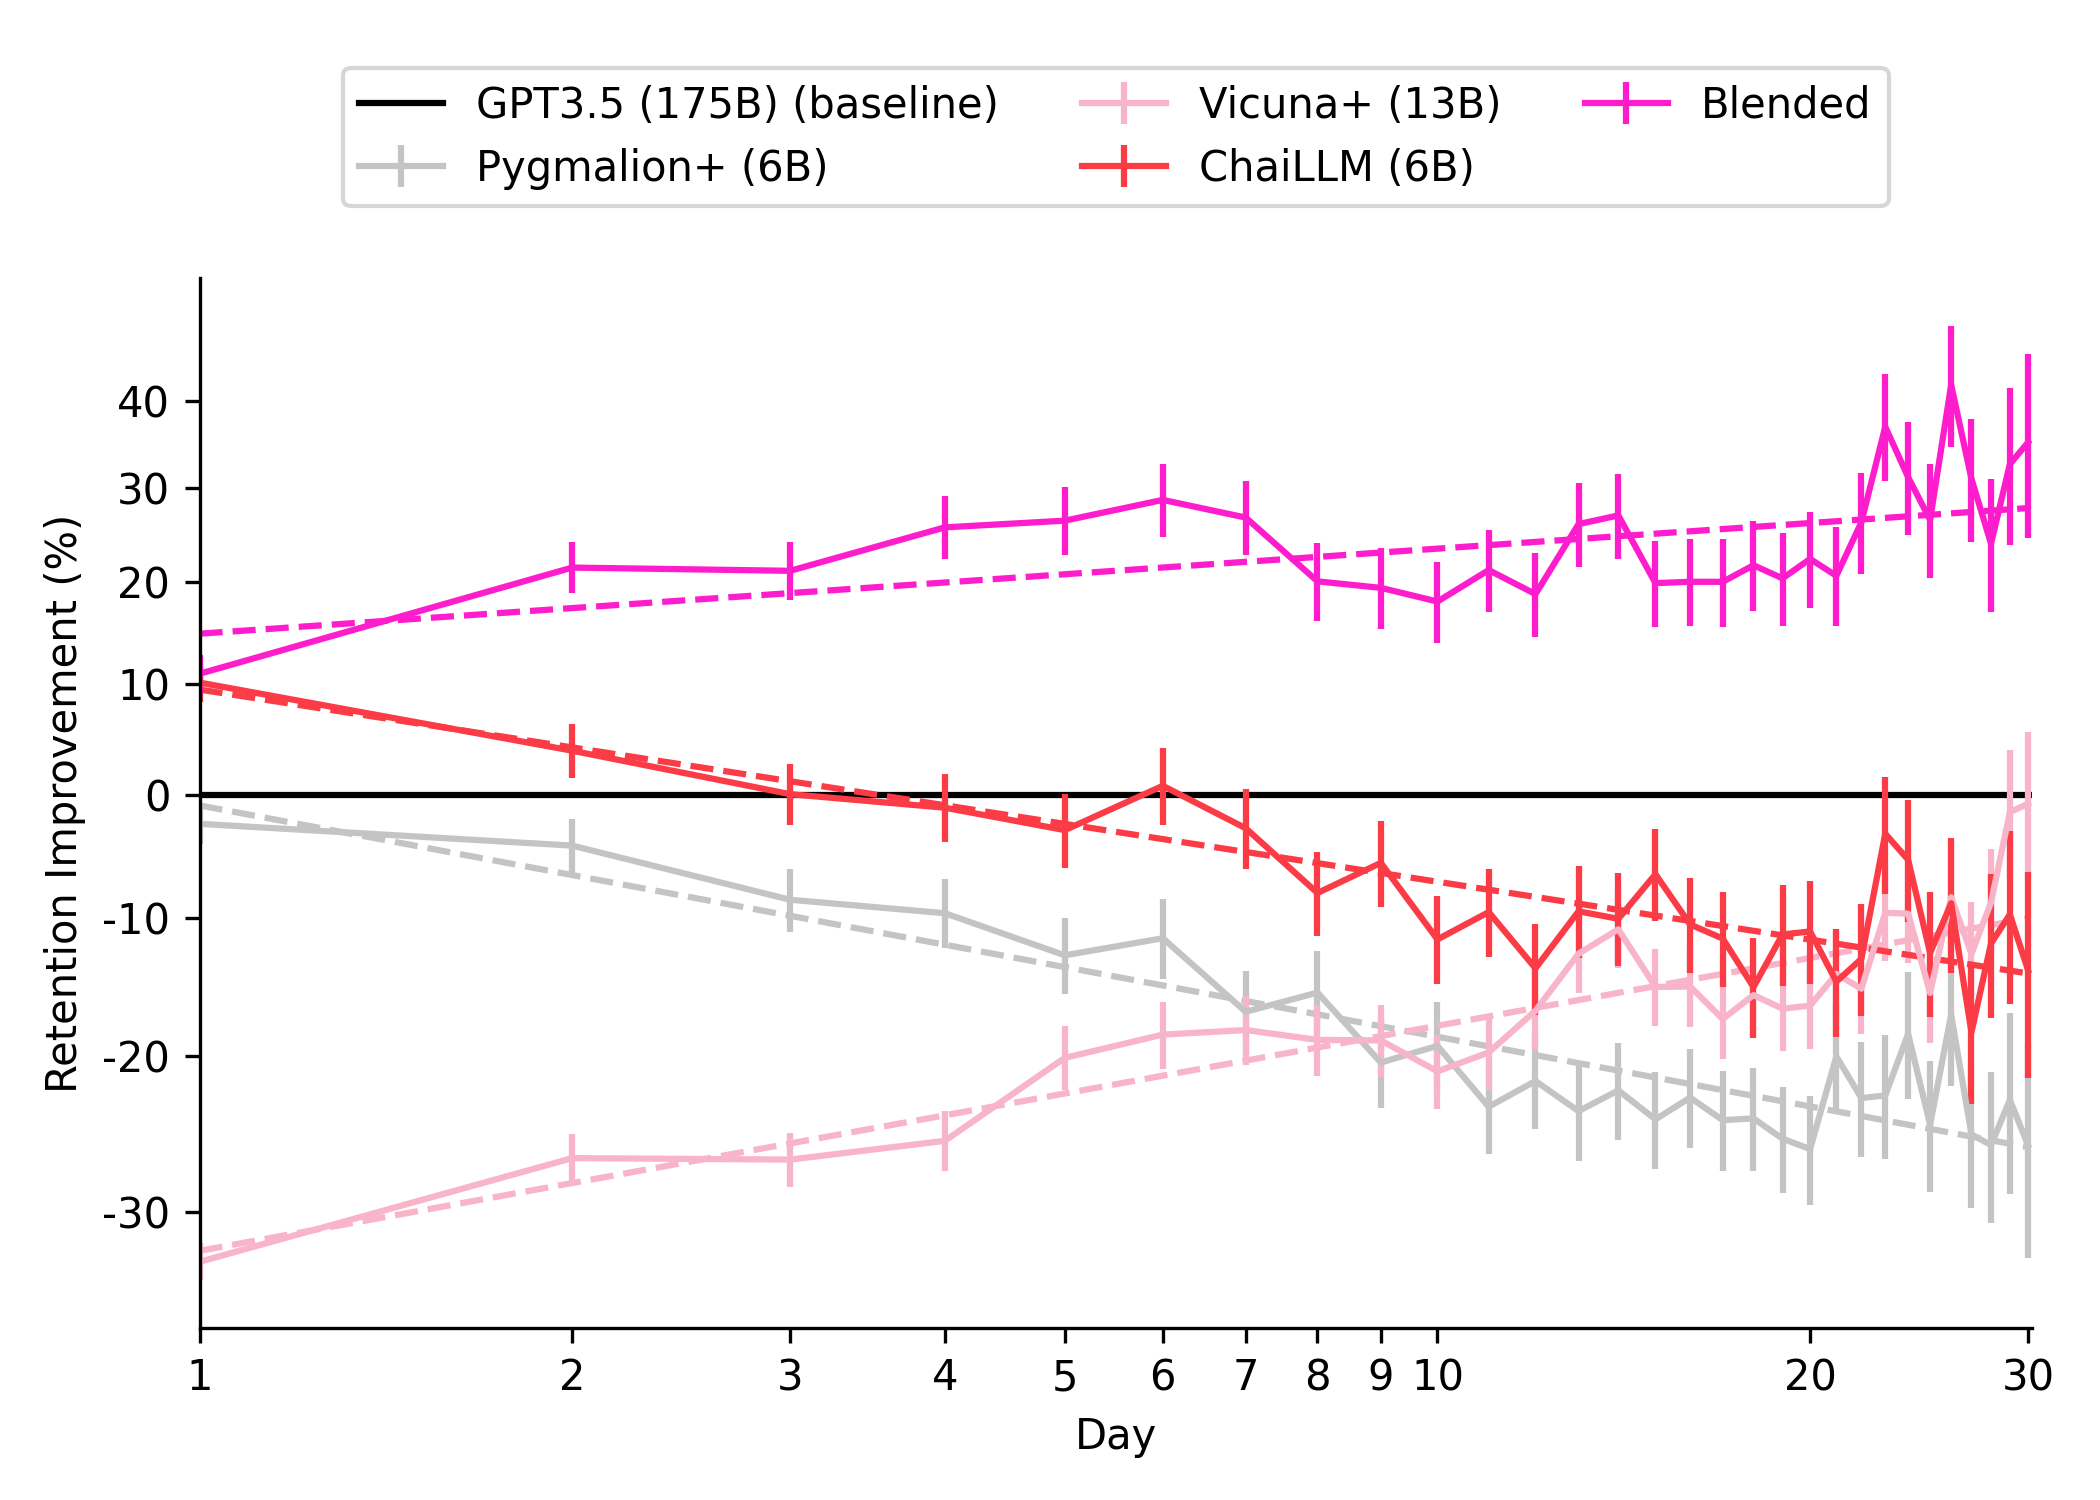
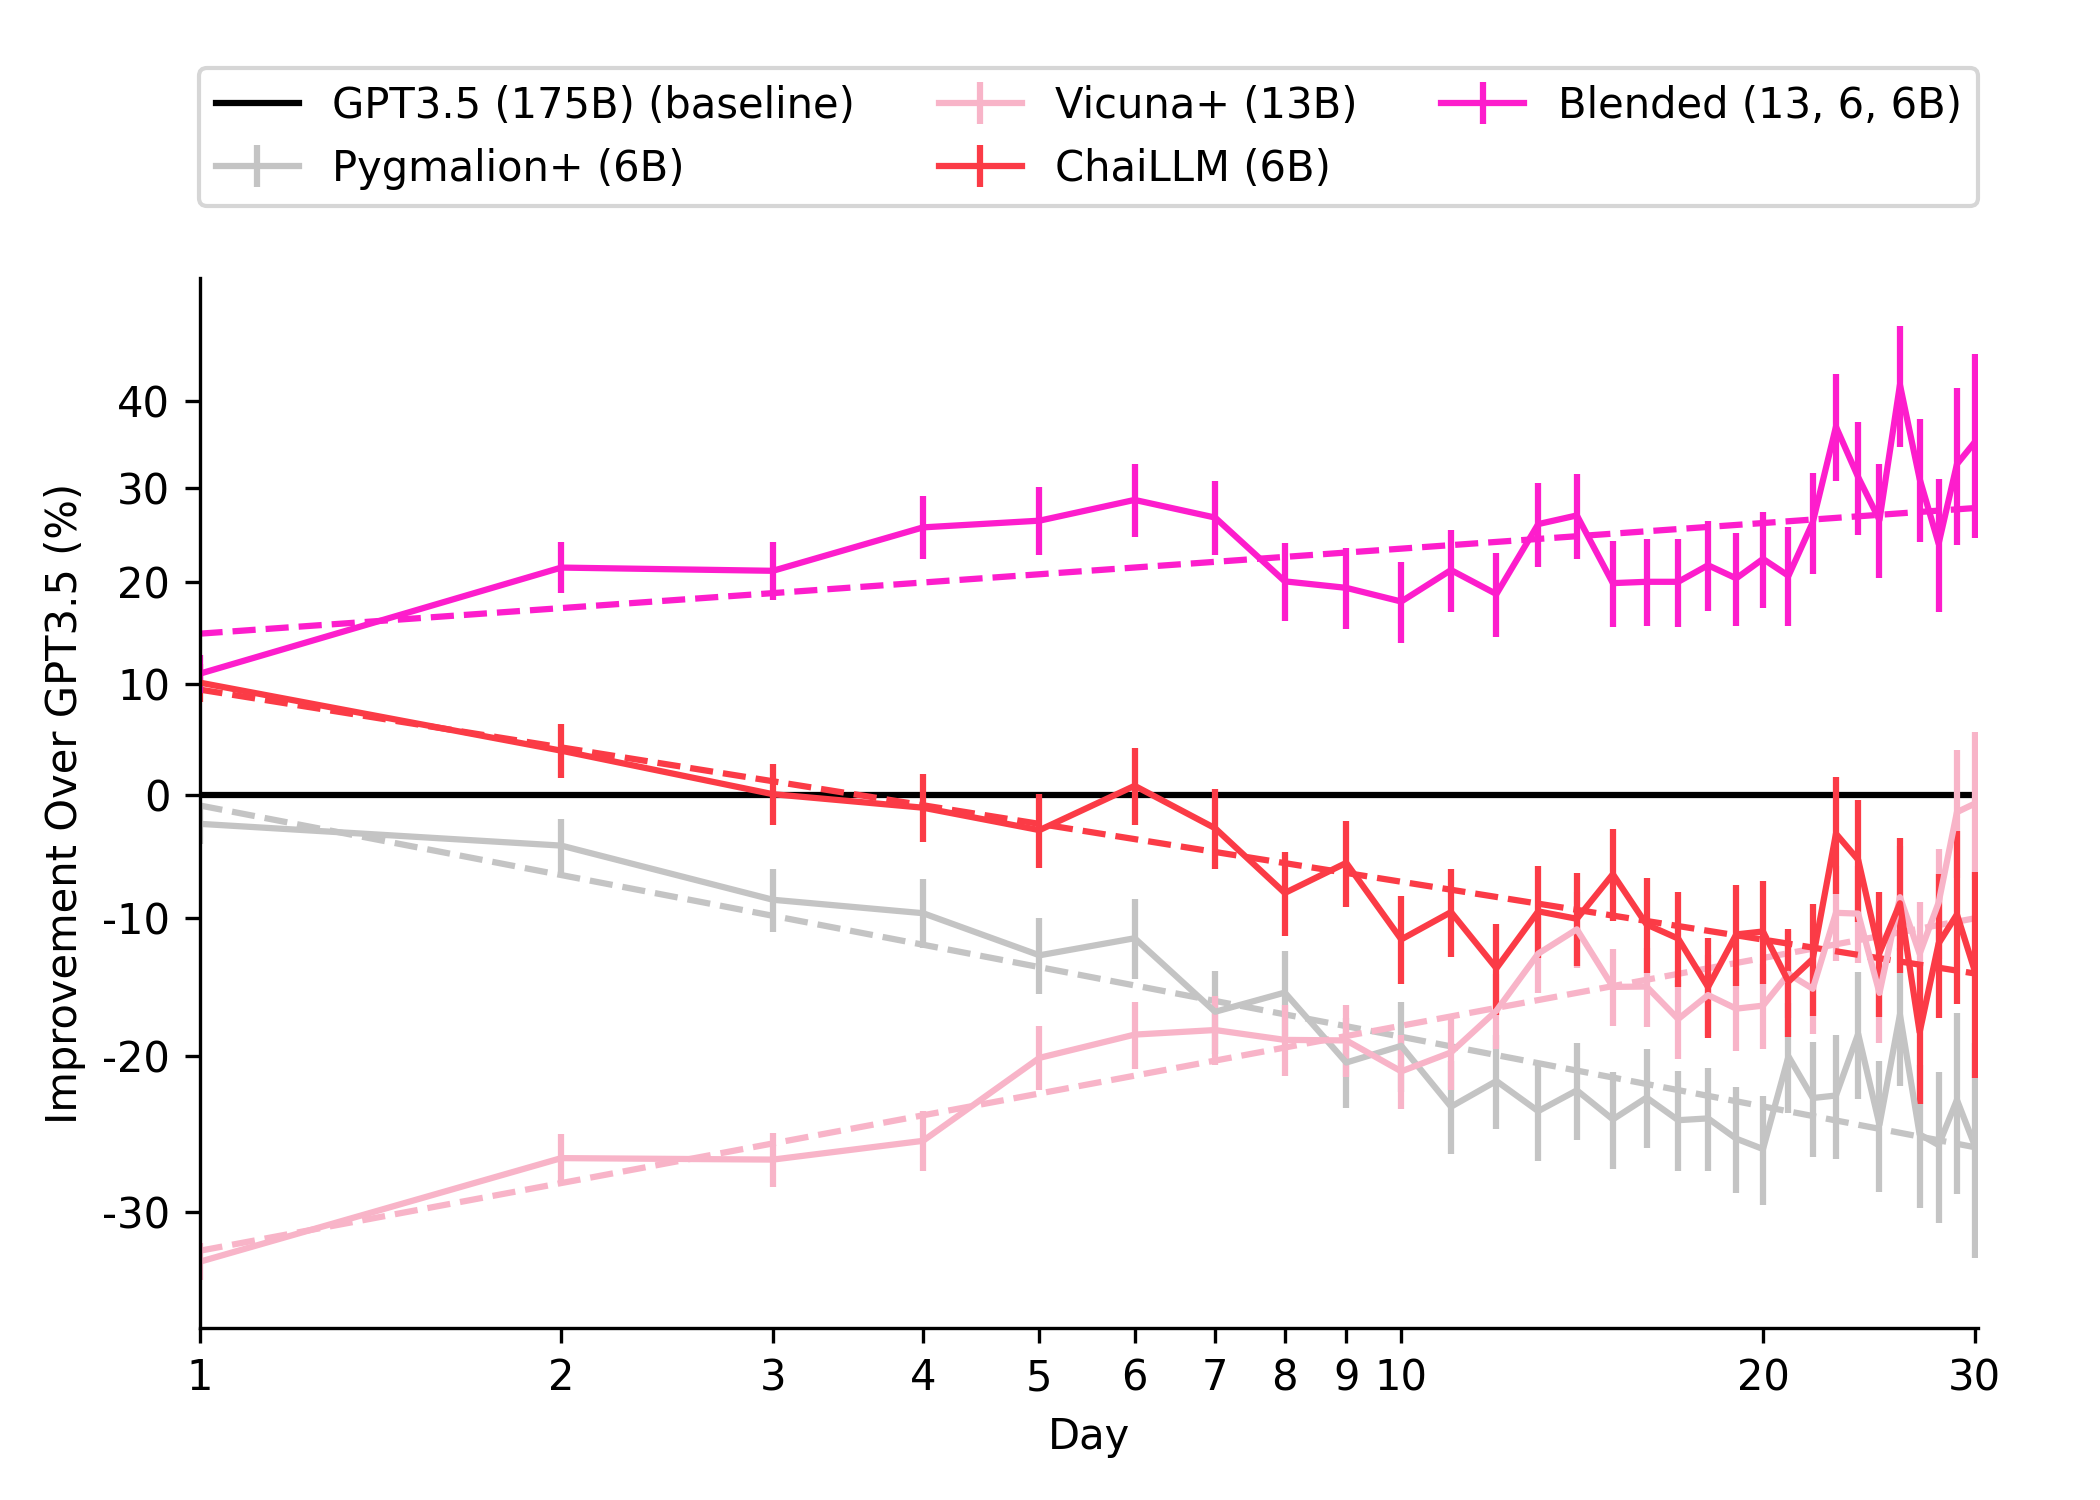
add bar plots

diff --git a/retention.py b/retention.py
@@ -47,9 +47,10 @@ def get_improvement_stats(df, control):
     return pd.DataFrame(out)
 
 
-def plot_retention(groups, control):
+def plot_retention(data, control):
     colors = ['#c4c4c4', '#f8b4c8', '#fb3b46', '#fd1dcc', '#fff59f']
     fig, ax = plt.subplots(figsize=(7, 5), dpi=300)
+    groups = data.copy()
     control_df = groups.pop(control)
     ax.axhline(1, color='k', label=f'{control} (baseline)')
     for idx, (name, df) in enumerate(groups.items()):
@@ -64,7 +65,7 @@ def plot_retention(groups, control):
 
 def _format_retention_plot(ax):
     ax.set_xlabel('Day')
-    ax.set_ylabel('Retention Improvement (%)')
+    ax.set_ylabel('Improvement Over GPT3.5 (%)')
     ax.set_xscale('log')
     ax.set_yscale('log')
     ax.set_xticks([1, 2, 3, 4, 5, 6, 7, 8, 9, 10, 20, 30])
@@ -78,16 +79,17 @@ def _format_retention_plot(ax):
 
 
 def _add_line_of_best_fit_plot(stats, ax, color):
-    params = _run_regression(stats)
+    params = run_regression(stats, 'improvement')
     expected = np.exp(params['slope'] * np.log(stats['day_n']) + params['intercept'])
     ax.plot(stats['day_n'], expected, '--', color=color)
     return ax
 
 
-def _run_regression(df):
-    y = np.log(df['improvement'])
+def run_regression(df, statistics):
+    assert statistics in {'improvement', 'retention'}
+    y = np.log(df[statistics])
     X = np.array([np.log(df['day_n']), np.ones(len(df))]).T
-    se = df['se'] / df['improvement']
+    se = df['se'] / df[statistics]
     inv_cov = np.diag(1 / se ** 2)
     params_covariance = np.linalg.pinv(np.dot(np.dot(X.T, inv_cov), X))
     targets = np.dot(np.dot(X.T, inv_cov), y)
@@ -97,9 +99,54 @@ def _run_regression(df):
         'slope_se': params_covariance[0, 0]**0.5,
         'intercept': params[1],
         'intercept_se': params_covariance[1, 1]**0.5,
+        'd30': df[statistics].iloc[-5],
+        'd30_se': df['se'].iloc[-5],
     }
     return out
 
+
+def plot_retention_statistics(stats):
+    fig, ax = plt.subplots(1, 3, figsize=(15, 5), dpi=300)
+    ax[0] = _retention_improvement_bar_plot(stats, ax[0])
+    ax[1] = _bar_plot(stats, ax[1], 'intercept')
+    ax[2] = _bar_plot(stats, ax[2], 'slope')
+    plt.subplots_adjust(bottom=0.25)
+    plt.tight_layout()
+    return fig
+
+
+def _bar_plot(stats, ax, stat_label):
+    colors = ['#c4c4c4', '#f8b4c8', '#fb3b46', '#fd1dcc', '#fff59f']
+    values = [model[stat_label] for model in stats.values()]
+    labels = list(stats.keys())
+    
+    # sorted_indices = sorted(range(len(values)), key=lambda k: values[k], reverse=True)
+    # dont sort, just hard code...
+    sorted_indices = [3, 4, 1, 2, 0]
+    values = [1 / (-values[i]) for i in sorted_indices]
+    labels = [labels[i] for i in sorted_indices]
+    bar_colors = [colors[i] for i in sorted_indices]
+
+    ax.bar(labels, values, capsize=5, color=bar_colors, edgecolor='black')
+    ax.set_title(stat_label.capitalize())
+    ax.set_xticklabels(labels, rotation=45, ha='right')
+    return ax
+
+
+def _retention_improvement_bar_plot(stats, ax):
+    colors = ['#c4c4c4', '#f8b4c8', '#fb3b46', '#fd1dcc', '#fff59f']
+    values = [model['d30'] for model in stats.values()]
+    labels = list(stats.keys())
+    sorted_indices = [3, 4, 1, 2, 0]
+    values = [values[i] for i in sorted_indices]
+    values = [(v - values[-1]) * 100 / values[-1]  for v in values]
+    labels = [labels[i] for i in sorted_indices]
+    bar_colors = [colors[i] for i in sorted_indices]
+    ax.bar(labels, values, capsize=5, color=bar_colors, edgecolor='black')
+    ax.set_title('Retention Improvement Over Pygmalion %')
+    ax.set_ylim(0, None)
+    ax.set_xticklabels(labels, rotation=45, ha='right')
+    return ax
 
 
 if __name__ == '__main__':
@@ -111,12 +158,16 @@ if __name__ == '__main__':
             data['0525_vicuna_13b_reward']
             )
     data = {name: get_retention_stats(df) for name, df in data.items()}
-    groups = {
+    data = {
             'Pygmalion+ (6B)': data['0715_pyg'],
             'Vicuna+ (13B)': data['norm_0525_vicuna_13b_reward'],
             'ChaiLLM (6B)': data['0715_zl_v2e'],
-            'Blended': data['0715_blended_v3_baseline'],
+            'Blended (13, 6, 6B)': data['0715_blended_v3_baseline'],
             'GPT3.5 (175B)': data['0715_azure_davinci'],
             }
-    fig = plot_retention(groups, 'GPT3.5 (175B)')
+    fig = plot_retention(data, 'GPT3.5 (175B)')
     fig.savefig(f'{PLOT_DATA_DIR}/retention.png')
+
+    retention_stats = {name: run_regression(df, 'retention') for name, df in data.items()}
+    fig = plot_retention_statistics(retention_stats)
+    fig.savefig(f'{PLOT_DATA_DIR}/retention_stats.png')
